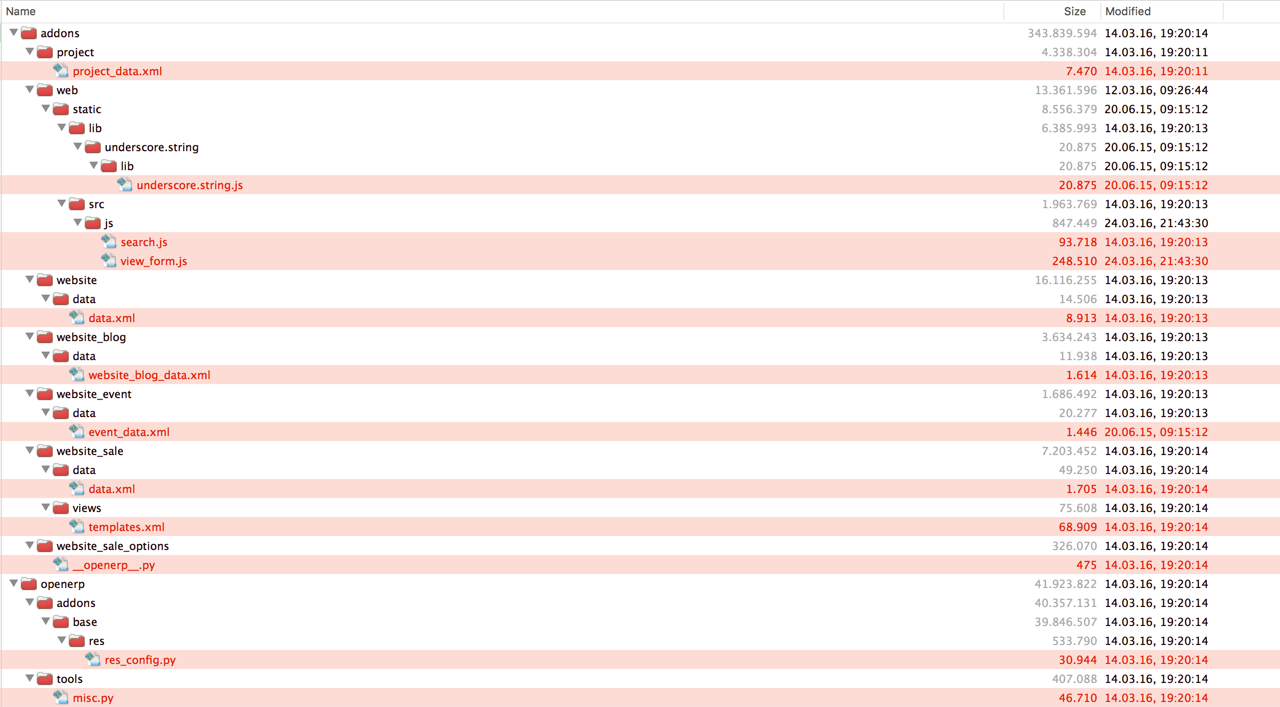
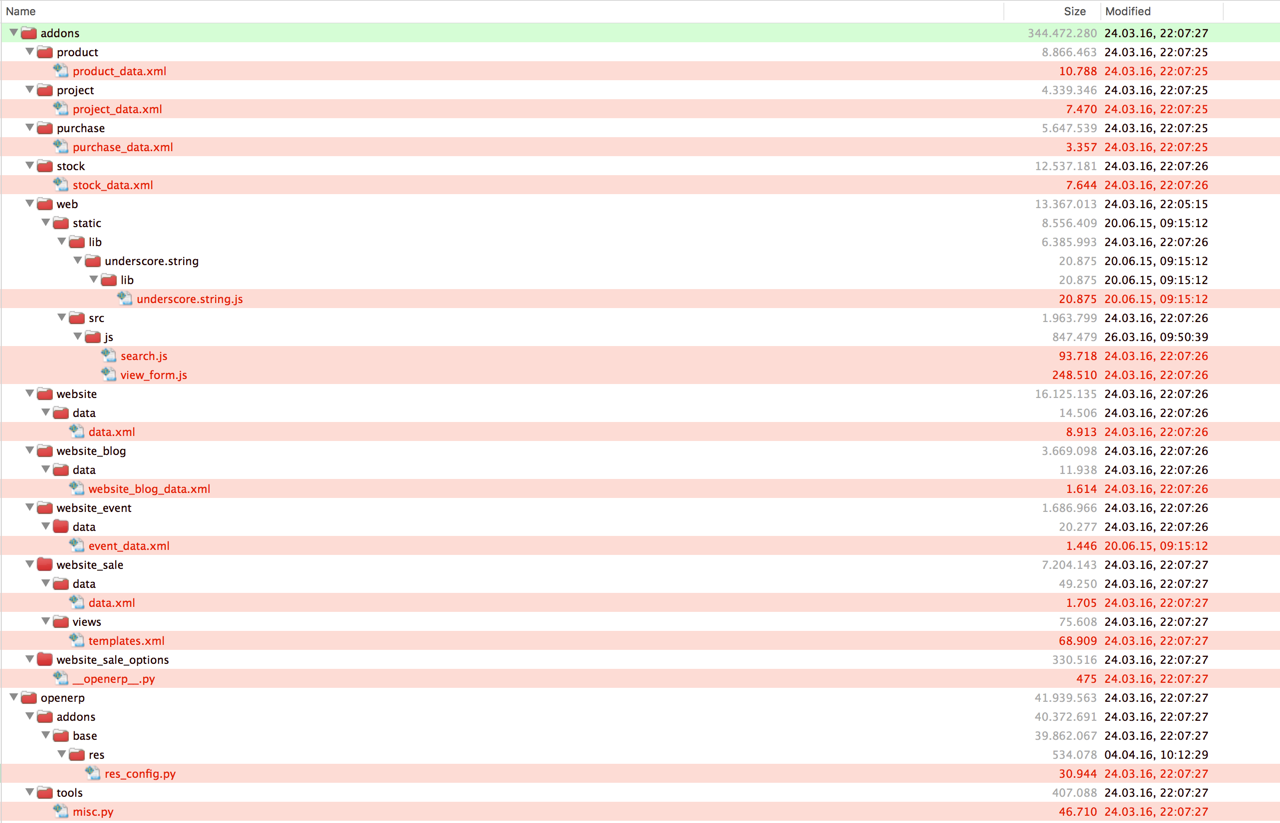
[CHG] `Letzer Abgleich: 04.04.2016` `Aktuelle Buildversion: 160401`

diff --git a/openerp/modules/loading.py b/openerp/modules/loading.py
@@ -453,7 +453,10 @@ def load_modules(db, force_demo=False, status=None, update_module=False):
         t0 = time.time()
         t0_sql = openerp.sql_db.sql_counter
         if openerp.tools.config['test_enable']:
-            cr.execute("SELECT name FROM ir_module_module WHERE state='installed'")
+            if update_module:
+                cr.execute("SELECT name FROM ir_module_module WHERE state='installed' and name = ANY(%s)", (processed_modules,))
+            else:
+                cr.execute("SELECT name FROM ir_module_module WHERE state='installed'")
             for module_name in cr.fetchall():
                 report.record_result(openerp.modules.module.run_unit_tests(module_name[0], cr.dbname, position=runs_post_install))
             _logger.log(25, "All post-tested in %.2fs, %s queries", time.time() - t0, openerp.sql_db.sql_counter - t0_sql)

diff --git a/openerp/release.py b/openerp/release.py
@@ -33,7 +33,7 @@ RELEASE_LEVELS_DISPLAY = {ALPHA: ALPHA,
 version_info = (8, 1, 0, FINAL, 0)
 
 # myBuild add from MyOdoo in format YYMMCOUNT for Releasemanager
-myBuild = '160303'
+myBuild = '160401'
 
 version = '.'.join(map(str, version_info[:2])) + RELEASE_LEVELS_DISPLAY[version_info[3]] + str(version_info[4] or '') + ' Build ' + myBuild
 series = serie = major_version = '.'.join(map(str, version_info[:2]))

diff --git a/README.md b/README.md
@@ -12,6 +12,14 @@ Unsere **deutschen Sprachübersetzungen unterscheiden** sich in Details von den 
 
 - /odoo/openerp/addons/base/res/res_config.py -> Erweiterung der Rechte-Gruppen um einen Managed Admin
 
+- /odoo/addons/product/product_data.xml -> Bessere deutsche Grundbegriffe für Lager und Preislisten
+
+- /odoo/addons/project/project_data.xml -> Projektstatt werden nicht mehr überschrieben bei Update
+
+- /odoo/addons/purchase/purchase_data.xml-> Bessere deutsche Grundbegriffe für Preislisten
+
+- /odoo/addons/stock/stock_data.xml -> Bessere deutsche Grundbegriffe für Lager
+
 - /odoo/addons/web/static/src/js/search.js -> Fehlerbeseitigung in der Suche
 
 - /odoo/addons/web/static/lib/underscore.string/lib.underscore.string.js -> Fehlerbeseitigung
@@ -31,9 +39,9 @@ Unsere **deutschen Sprachübersetzungen unterscheiden** sich in Details von den 
 
 Unser Fork wird regelmäßig mit dem Hauptodoo Fork abgeglichen.
 
-`Aktuelle Buildversion: 160303`
+`Aktuelle Buildversion: 160401`
 
-`Letzer Abgleich: 24.03.2016`
+`Letzer Abgleich: 04.04.2016`
 
 Dieser Fork obliegt der <a href="http://www.gnu.org/licenses/licenses.html">GNU Affero General Public License</a> wie das Ursprungssystem <a href="https://www.odoo.com">Odoo</a> selbst.
 
@@ -54,7 +62,3 @@ Zur Installation des Servers:
 
 
 Weitere Informationen unter <a href="https://www.myoodoo.de">Myodoo.de</a>
-
-
-
-
